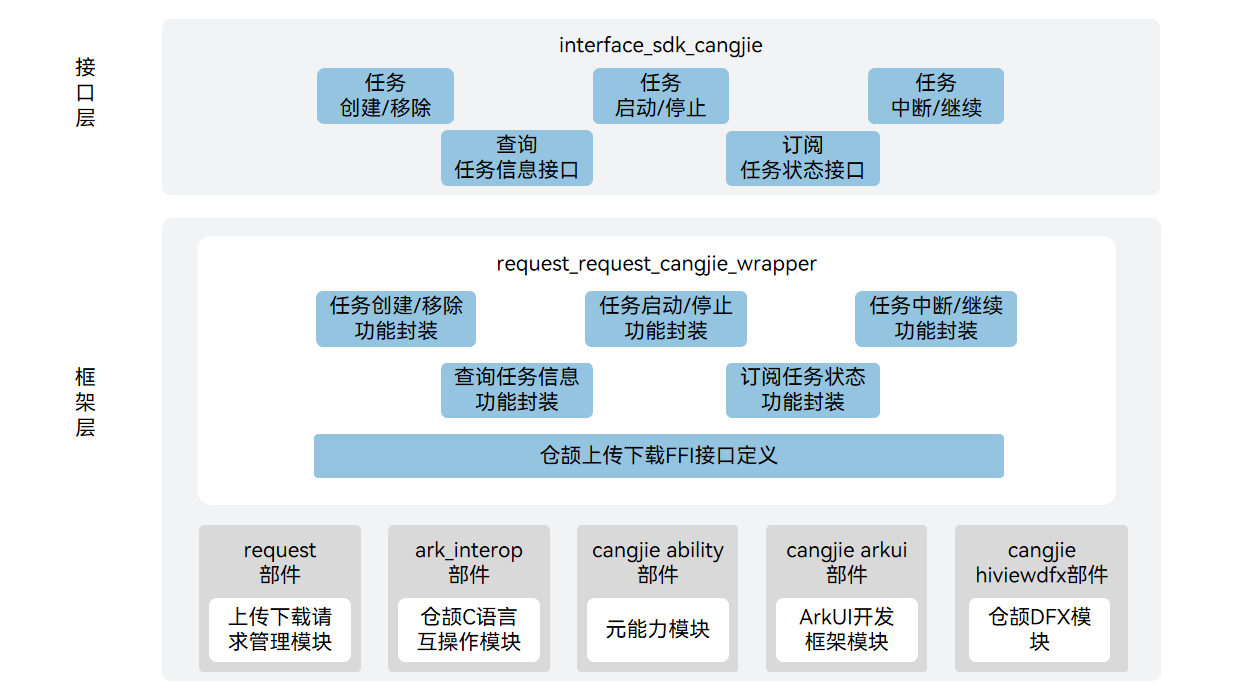
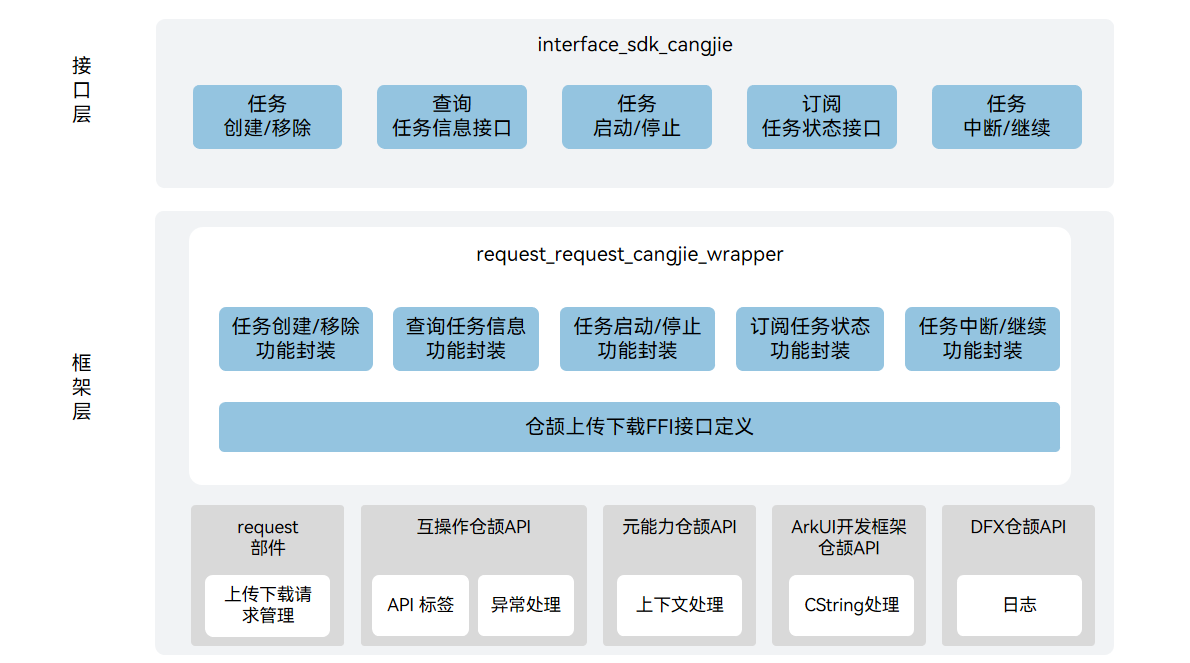
fix readme

diff --git a/README.md b/README.md
@@ -17,17 +17,19 @@ As depicted in the architecture diagram:
 - task pause/resume: Furnish interfaces for interrupting an executing upload or download task and resuming an interrupted one.
 - query task information : Present an interface for querying information regarding upload and download tasks.
 - subscribe task status : Provide an interface for subscribing to task status. A callback will be triggered when the task status undergoes a change.
-- Cangjie upload download FFI interface definition: Be responsible for defining the Cangjie interface for C language interoperability, which is employed to realize Cangjie's upload and download capabilities.
+- Cangjie upload download FFI interface definition: Responsible for defining the C language interoperability interface called by the Cangjie language, which is employed to realize Cangjie's upload and download capabilities.
 - upload and download request management module: Assume the responsibility of providing fundamental upload and download functions. It encapsulates the C language interface for interoperability with Cangjie.
 
 ## Directory Structure
 
 ```
 base/request/request_cangjie_wrapper
-├── figures          # architecture pictures           
+├── figures            # architecture pictures           
 ├── ohos
-    └── request      # Cangjie Upload and Download code
-└── test             # test code
+│   └── request        # Cangjie Upload and Download code          
+└── test
+    └── APILevel22
+        └── request    # Cangjie Upload and Download test code
 ```
 
 ## Constraint
@@ -42,7 +44,7 @@ base/request/request_cangjie_wrapper
 ## Instructions For Use
 
 - The following upload and download functions are provided
-
+  
   - Create a task to upload or download.
   - Query the task based on the task id.
   - Remove the specified task belonging to the caller.
@@ -52,14 +54,16 @@ base/request/request_cangjie_wrapper
   - Query the detailed information of the task based on the task id and token.
   - Events for subscribing to/unsubscribing tasks.
   - Start/Stop/Pause/restart tasks.
-- Compared with ArkTS, the following functions are temporarily not supported
 
+- Compared with the API capabilities provided by ArkTS, the following functions are temporarily not supported
+  
   - Create and start an upload task.
   - Create and start a download task.
   - Set the upper limit of bytes that the task can transfer per second.
   - Reasons for the failure of the subscription/unsubscription task.
   - Reasons for waiting for the subscription/unsubscription task.
-- For the request APIs, please refer to [ohos.request](https://gitcode.com/openharmony-sig/arkcompiler_cangjie_ark_interop/blob/master/doc/API_Reference/source_en/apis/BasicServicesKit/cj-apis-request-agent.md). For relevant guidance, please refer to [Application File Upload and Download Guide](https://gitcode.com/openharmony-sig/arkcompiler_cangjie_ark_interop/blob/master/doc/Dev_Guide/source_en/basic-services/request/cj-app-file-upload-download.md).
+
+- For the request APIs, please refer to [Upload and Download API reference](https://gitcode.com/openharmony-sig/arkcompiler_cangjie_ark_interop/blob/master/doc/API_Reference/source_en/apis/BasicServicesKit/cj-apis-request-agent.md). For relevant guidance, please refer to [Upload and Download Guide](https://gitcode.com/openharmony-sig/arkcompiler_cangjie_ark_interop/blob/master/doc/Dev_Guide/source_en/basic-services/request/cj-app-file-upload-download.md).
 
 ## Code Contribution
 

diff --git a/README_zh.md b/README_zh.md
@@ -17,17 +17,19 @@
 - 任务中断/继续：提供中断一个正在执行的上传下载任务和继续一个被中断的上传下载任务的接口。
 - 查询任务信息：提供查询上传下载任务信息的接口。
 - 订阅任务状态：提供订阅任务状态的接口，当任务状态发生变化时候触发回调。
-- 仓颉上传下载FFI接口定义：负责定义C语言互操作仓颉接口，用于实现仓颉上传下载能力。
+- 仓颉上传下载FFI接口定义：负责定义被仓颉语言调用的C语言互操作接口，用于实现仓颉上传下载能力。
 - 上传下载请求管理模块：负责提供上传下载基础功能，封装C语言接口提供给仓颉进行互操作。
 
 ## 目录
 
 ```
 base/request/request_cangjie_wrapper
-├── figures          # 存放README中的架构图         
+├── figures            # 存放README中的架构图         
 ├── ohos
-    └── request      # 仓颉上传下载接口实现
-└── test             # 测试代码
+│   └── request        # 仓颉上传下载接口实现
+└── test
+    └── APILevel22
+        └── request    # 仓颉上传下载接口测试代码
 ```
 
 ## 约束
@@ -42,7 +44,7 @@ base/request/request_cangjie_wrapper
 ## 使用说明
 
 - 提供以下上传下载功能
-
+  
   - 创建要上传或下载的任务
   - 根据任务id查询任务
   - 移除属于调用方的指定任务
@@ -52,14 +54,16 @@ base/request/request_cangjie_wrapper
   - 根据任务id和token查询任务的详细信息
   - 订阅/取消订阅任务的事件
   - 启动/停止/暂停/重启任务
-- 与ArkTS相比，暂不支持以下功能：
 
+- 与ArkTS提供的API能力相比，暂不支持以下功能：
+  
   - 创建并启动一个上传任务
   - 创建并启动一个下载任务
   - 设置任务每秒能传输的字节数上限
   - 订阅/取消订阅任务失败原因
   - 订阅/取消订阅任务等待原因
-- request相关API请参见[ohos.request](https://gitcode.com/openharmony-sig/arkcompiler_cangjie_ark_interop/blob/master/doc/API_Reference/source_zh_cn/apis/BasicServicesKit/cj-apis-request-agent.md)，相关指导请参见[应用文件上传下载开发指南](https://gitcode.com/openharmony-sig/arkcompiler_cangjie_ark_interop/blob/master/doc/Dev_Guide/source_zh_cn/basic-services/request/cj-app-file-upload-download.md)。
+
+- request相关API请参见[上传下载 API参考](https://gitcode.com/openharmony-sig/arkcompiler_cangjie_ark_interop/blob/master/doc/API_Reference/source_zh_cn/apis/BasicServicesKit/cj-apis-request-agent.md)，相关指导请参见[上传下载开发指南](https://gitcode.com/openharmony-sig/arkcompiler_cangjie_ark_interop/blob/master/doc/Dev_Guide/source_zh_cn/basic-services/request/cj-app-file-upload-download.md)。
 
 ## 参与贡献
 